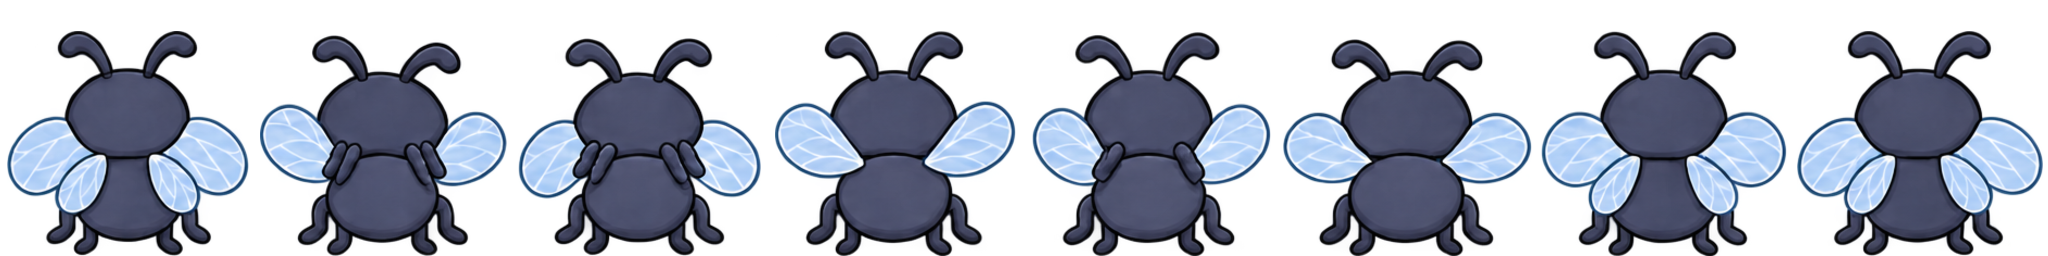
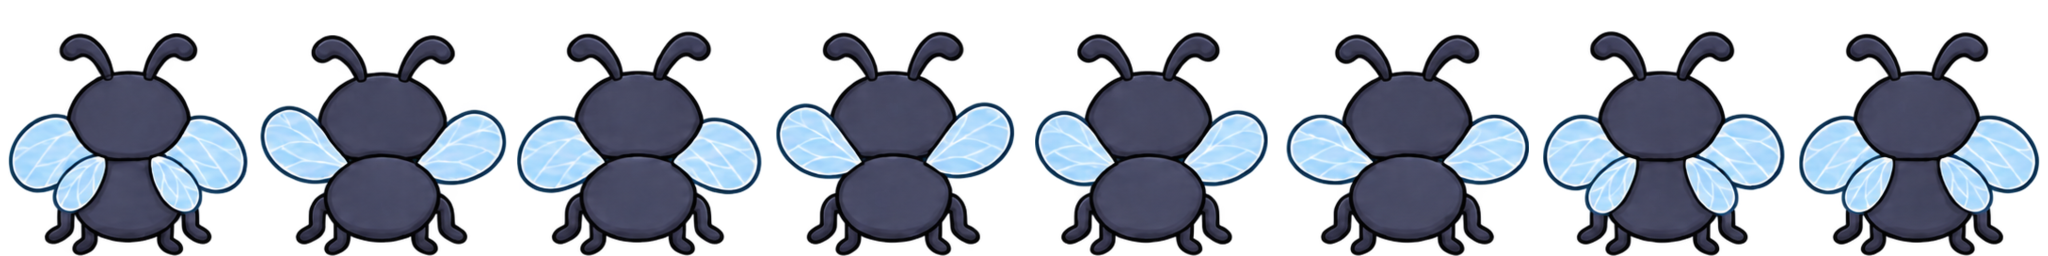
Fix rear-facing fly eating arm occlusion

diff --git a/docs/task-handoffs/fly-eating-animation.md b/docs/task-handoffs/fly-eating-animation.md
@@ -12,3 +12,11 @@ Artwork used the built-in image generation tool with the existing front, side, a
 2. Remove only the background and external glow/shadow; preserve all 24 sprites, their 8-by-3 grid, colors, wings, faces, poses, and locations. Deliver true transparent alpha without an opaque backdrop or drawn checkerboard.
 
 Deterministic ImageMagick preparation split the grid, trimmed bounds at alpha above 12%, scaled each row uniformly to a maximum visible height of 225 px, and bottom-centered frames in 256 px cells. Geometry tests cover all new sheets. Original artwork was preserved.
+
+## Rear-facing arm correction
+
+The rear eating artwork showed raised forelegs over the back in frames 2, 3, and 5. Revised `fly-eat-away.png` keeps the mouth-reaching forelegs occluded on the far side of the head/body, with subtle head movement and wing poses conveying the bite. The existing eight 256 px cells and 720 ms playback contract remain intact. Front and side artwork and gameplay code are unchanged.
+
+Built-in imagegen edit prompt: edit the rear eating sheet using the rear flight sheet as anatomy reference; remove raised hands over the back and restore uninterrupted head/body outlines; preserve all eight frames, order, wing poses, antennas, colors, outlines, scale, center, foot baseline, and subtle chewing motion; rear view throughout, no visible face, food, props, extra legs, labels, or checkerboard; transparent background, neutral first/last frames. ImageMagick split the generated row into eight cells, trimmed at alpha above 12%, uniformly scaled to a maximum height of 225 px, and bottom-centered each cell in the existing atlas.
+
+Validation: focused self-review inspected all eight frames for occlusion and alignment. T3 browser decoded the final 2048x256 transparent sheet and advanced a canvas playback probe to frame 4 at the existing 90 ms frame interval. The preview screenshot retained the game splash rather than showing the injected review canvas, so visual evidence is the directly inspected atlas, not an in-game playback screenshot. `bun run check` passed all 176 tests, lint, typecheck, and build (two existing lint warnings). Temporary browser overlay/timer and dev server were removed/stopped.
